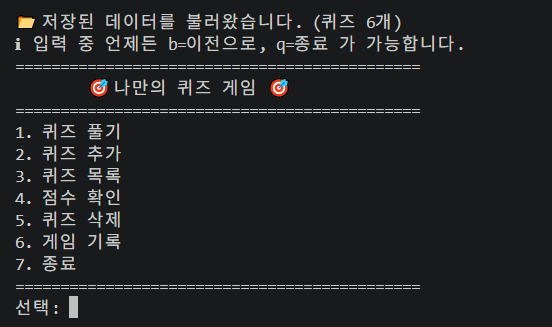
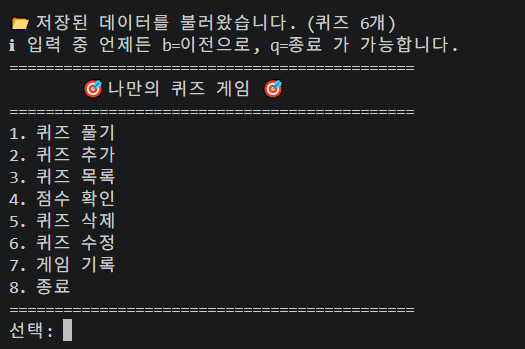
Docs: 퀴즈 수정 기능 및 최신 실행화면 README 최종 반영

Changed region(s): [[0.0, 0.0306, 0.8533, 0.9786]]

diff --git a/README.md b/README.md
@@ -4,12 +4,13 @@
 
 Python 기본 문법과 객체지향(클래스), JSON을 이용한 데이터 저장을 학습하기 위해
 터미널에서 동작하는 퀴즈 게임을 직접 구현한 프로젝트입니다.
-사용자는 퀴즈를 풀고, 새로운 퀴즈를 추가하고, 등록된 퀴즈 목록과 최고 점수를
-확인할 수 있으며, 프로그램을 종료해도 데이터가 유지됩니다.
+사용자는 퀴즈를 풀고, 새로운 퀴즈를 추가/수정/삭제하고, 등록된 퀴즈 목록과
+최고 점수를 확인할 수 있으며, 프로그램을 종료해도 데이터가 유지됩니다.
 또한 Git을 이용해 기능 단위로 커밋을 남기고, 브랜치를 나눠 작업한 뒤 병합하며
 개발 이력을 관리했습니다. 필수 기능 완성 이후에는 랜덤 출제, 문제 수 선택,
 힌트, 퀴즈 삭제, 게임 기록 히스토리 등 보너스 기능과, 전역 뒤로가기/종료
-네비게이션, 도움말, 즉시 저장 같은 사용성 개선도 추가로 구현했습니다.
+네비게이션, 도움말, 즉시 저장, 퀴즈 수정 같은 사용성 개선도 추가로
+구현했습니다.
 
 ## 퀴즈 주제와 선정 이유
 
@@ -22,7 +23,7 @@ IT 및 비즈니스를 공부하는 학습자로서, 개발 기초 상식과 일
 python main.py
 ```
 
-실행 후 메뉴에 나오는 번호(1~7)를 입력해 원하는 기능을 선택합니다.
+실행 후 메뉴에 나오는 번호(1~8)를 입력해 원하는 기능을 선택합니다.
 대부분의 입력창에서 `b`를 입력하면 이전(메뉴)으로 돌아가고, `q`를 입력하면
 지금까지의 변경사항을 저장하고 즉시 종료합니다. `?`를 입력하면 도움말이
 표시됩니다.
@@ -52,6 +53,7 @@ python main.py
 - **전역 네비게이션**: 대부분의 입력창에서 `b`(이전 메뉴로), `q`(저장 후 종료)가 공통으로 동작합니다.
 - **도움말**: 입력창에서 `?`를 입력하면 사용 가능한 네비게이션 안내를 보여줍니다.
 - **즉시 저장**: 종료를 선택하지 않아도, 메뉴에서 어떤 기능을 실행할 때마다 바로 `state.json`에 반영됩니다.
+- **퀴즈 수정**: 등록된 퀴즈를 선택해 문제/선택지/정답/힌트를 다시 입력할 수 있으며, 각 항목에서 Enter만 누르면 기존 값이 그대로 유지됩니다.
 
 ## 파일 구조
 
@@ -59,7 +61,7 @@ python main.py
 quiz_game/
 ├── main.py            # 실행 진입점, 메뉴 루프, 예외(Ctrl+C/EOFError) 처리
 ├── quiz.py             # Quiz 클래스 (문제 1개의 데이터, 출력, 채점, 힌트 로직)
-├── quiz_game.py        # QuizGame 클래스 (풀기/추가/목록/삭제/점수/기록 로직, 입력 검증, 네비게이션)
+├── quiz_game.py        # QuizGame 클래스 (풀기/추가/수정/삭제/목록/점수/기록 로직, 입력 검증, 네비게이션)
 ├── data_manager.py     # state.json 저장/불러오기, 손상 시 기본 데이터 복구
 ├── state.json           # 퀴즈 데이터, 최고 점수, 게임 기록 저장 파일
 ├── docs/
@@ -118,6 +120,10 @@ quiz_game/
 
 ![add_quiz](docs/screenshots/add_quiz.png)
 
+### 퀴즈 수정 (기존 값 유지 · 변경할 항목만 입력)
+
+![edit_quiz](docs/screenshots/edit_quiz.png)
+
 ### 퀴즈 목록
 
 ![list](docs/screenshots/list.png)
@@ -158,8 +164,10 @@ pull로 그 변경사항이 정상적으로 반영되는 것까지 확인한 전
 - **int, str, bool, list, dict의 차이**: `int`는 숫자(정답 번호, 점수), `str`은 문자열
   (문제 내용), `bool`은 참/거짓(정답 여부 판단 결과), `list`는 순서 있는 여러 값의 묶음
   (선택지 4개, 퀴즈 목록, 게임 기록), `dict`는 키-값 쌍으로 이루어진 데이터(JSON으로
-  저장할 때의 `to_dict()` 결과, 게임 기록 한 건)로 각각 역할이 다릅니다.
-- **if/elif/else 활용**: `main.py`의 메뉴 분기(1~7번 중 어떤 기능을 실행할지)와
+  저장할 때의 `to_dict()` 결과, 게임 기록 한 건)로 각각 역할이 다릅니다. 또한
+  힌트가 없는 문제는 `None`(파이썬)이 JSON의 `null`로 저장되어, 0이나 빈 문자열과는
+  구분되는 "값이 아예 없음"을 표현합니다.
+- **if/elif/else 활용**: `main.py`의 메뉴 분기(1~8번 중 어떤 기능을 실행할지)와
   `check_answer()`의 정답 판정, 힌트 사용 여부 판단, `b`/`q`/`?` 입력 처리 등에
   사용했습니다.
 - **for와 while의 차이**: 정해진 횟수(퀴즈 개수, 선택지 4개, 게임 기록 개수)만큼
@@ -188,9 +196,10 @@ pull로 그 변경사항이 정상적으로 반영되는 것까지 확인한 전
 - **속성과 메서드를 어떻게 나눴는지**: `Quiz`의 속성은 `question`, `choices`,
   `answer`, `hint`이고 메서드는 `display()`(출력), `check_answer()`(채점),
   `has_hint()`(힌트 보유 여부)입니다. `QuizGame`의 속성은 `quizzes`, `best_score`,
-  `history`이고 메서드는 `play()`, `add_quiz()`, `list_quizzes()`,
+  `history`이고 메서드는 `play()`, `add_quiz()`, `edit_quiz()`, `list_quizzes()`,
   `show_best_score()`, `delete_quiz()`, `show_history()`, 그리고 공통 입력을
-  담당하는 `_read_line()` 등입니다.
+  담당하는 `_read_line()` 등입니다. 퀴즈 수정 시에는 새 `Quiz` 객체를 만들어
+  기존 위치의 객체를 통째로 교체하는 방식을 사용했습니다.
 
 ### 파일 입출력
 
@@ -225,7 +234,8 @@ pull로 그 변경사항이 정상적으로 반영되는 것까지 확인한 전
   기능별 브랜치를 만들어 작업한 뒤, 작업이 끝나면 `main`으로 돌아와
   `git merge feature/이름`으로 병합했습니다. (예: `feature/readme`,
   `feature/refactor-quiz`, `feature/random-order`, `feature/select-count`,
-  `feature/hint`, `feature/delete-quiz`, `feature/score-history`)
+  `feature/hint`, `feature/delete-quiz`, `feature/score-history`,
+  `feature/edit-quiz`)
 - **clone/pull 실습에서 무엇을 확인했는지**: 별도 폴더에 저장소를 `git clone`으로
   복제한 뒤, 그 폴더에서 README를 수정하고 `git push`로 원격 저장소에 반영했습니다.
   이후 원래 작업 폴더에서 `git pull`을 실행해 "Fast-forward"로 그 변경사항이
@@ -242,6 +252,11 @@ pull로 그 변경사항이 정상적으로 반영되는 것까지 확인한 전
 - 게임 기록(`history`)은 별도의 서버나 데이터베이스가 아니라 로컬 `state.json`
   파일에만 저장되므로, 실행하는 컴퓨터(또는 폴더)마다 독립적으로 기록이
   쌓입니다.
+- `b`/`q`/`?`를 전역 네비게이션 키워드로 사용하는 방식은, 자유 텍스트를
+  입력받는 항목(문제, 힌트 등)에서 사용자가 정말로 "b"나 "q" 한 글자만
+  입력하고 싶은 경우와 이론적으로 충돌할 수 있습니다. 정답 입력은 항상
+  숫자로 제한되어 있어 실질적인 문제는 없지만, 더 엄격하게 하려면 `/b`,
+  `/q`처럼 구분되는 문법을 쓰는 방법을 고려할 수 있습니다.
 
 ## 개발 환경
 
